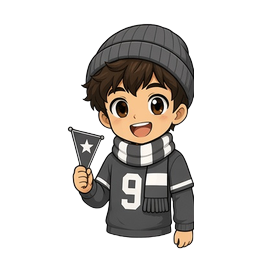
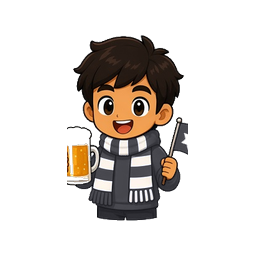
Add full-body fan grey proposals closer to original style
Restore original fan-grey assets; park two Bloons-like full-body
proposal sets (A/B) under docs/fan-progression/proposals for review.

Changed region(s): [[0.25, 0.0938, 0.7812, 0.9688]]

diff --git a/unit-icons-agent/docs/fan-progression/proposals/README.md b/unit-icons-agent/docs/fan-progression/proposals/README.md
@@ -1,0 +1,34 @@
+# Fan-Vorschläge (Runde 2)
+
+Feedback zur ersten Neugenerierung: Stil zu weit weg vom Original, und Figuren brauchen **vollen Körper** (Beine), damit sie später im Stadion laufen können.
+
+## Anforderungen
+
+- Stil näher an **Original-Fans** + Bloons-/Toy-Look (dicke Outlines, runde Proportionen)
+- **Ganzfigurig** inkl. Unterleib / Beine / Schuhe
+- Klare Gimmick-Leiter: Fähnchen → Schal → Mütze → Trikot → große Fahne
+- Zuerst nur **Grau**
+
+## Vorschlag A — Bloons-Fullbody
+
+Datei: `proposal-a-strip.png` / `a-fan-grey-1.png` … `5.png`
+
+- Sehr klar gestaffelte Props
+- Kompakte Toy-Silhouette, Hand oft in der Tasche
+- Gesicht etwas runder/toyiger als das Original
+
+## Vorschlag B — Original-näher + Fullbody
+
+Datei: `proposal-b-strip.png` / `b-fan-grey-1.png` … `5.png`
+
+- Gesicht/Jacken-Look näher am bisherigen Fan
+- Gleiche Gimmick-Leiter, Lv5 mit deutlich großer Fahne
+- Etwas schlankere Standfigur als A
+
+## Vergleich
+
+`compare-original-vs-AB.png` — Original (nur Oberkörper) vs A vs B bei Lv1 und Lv5.
+
+## Status Assets
+
+`assets/units/fan-grey-*.png` sind wieder die **Original**-Icons, bis ein Vorschlag freigegeben ist.
